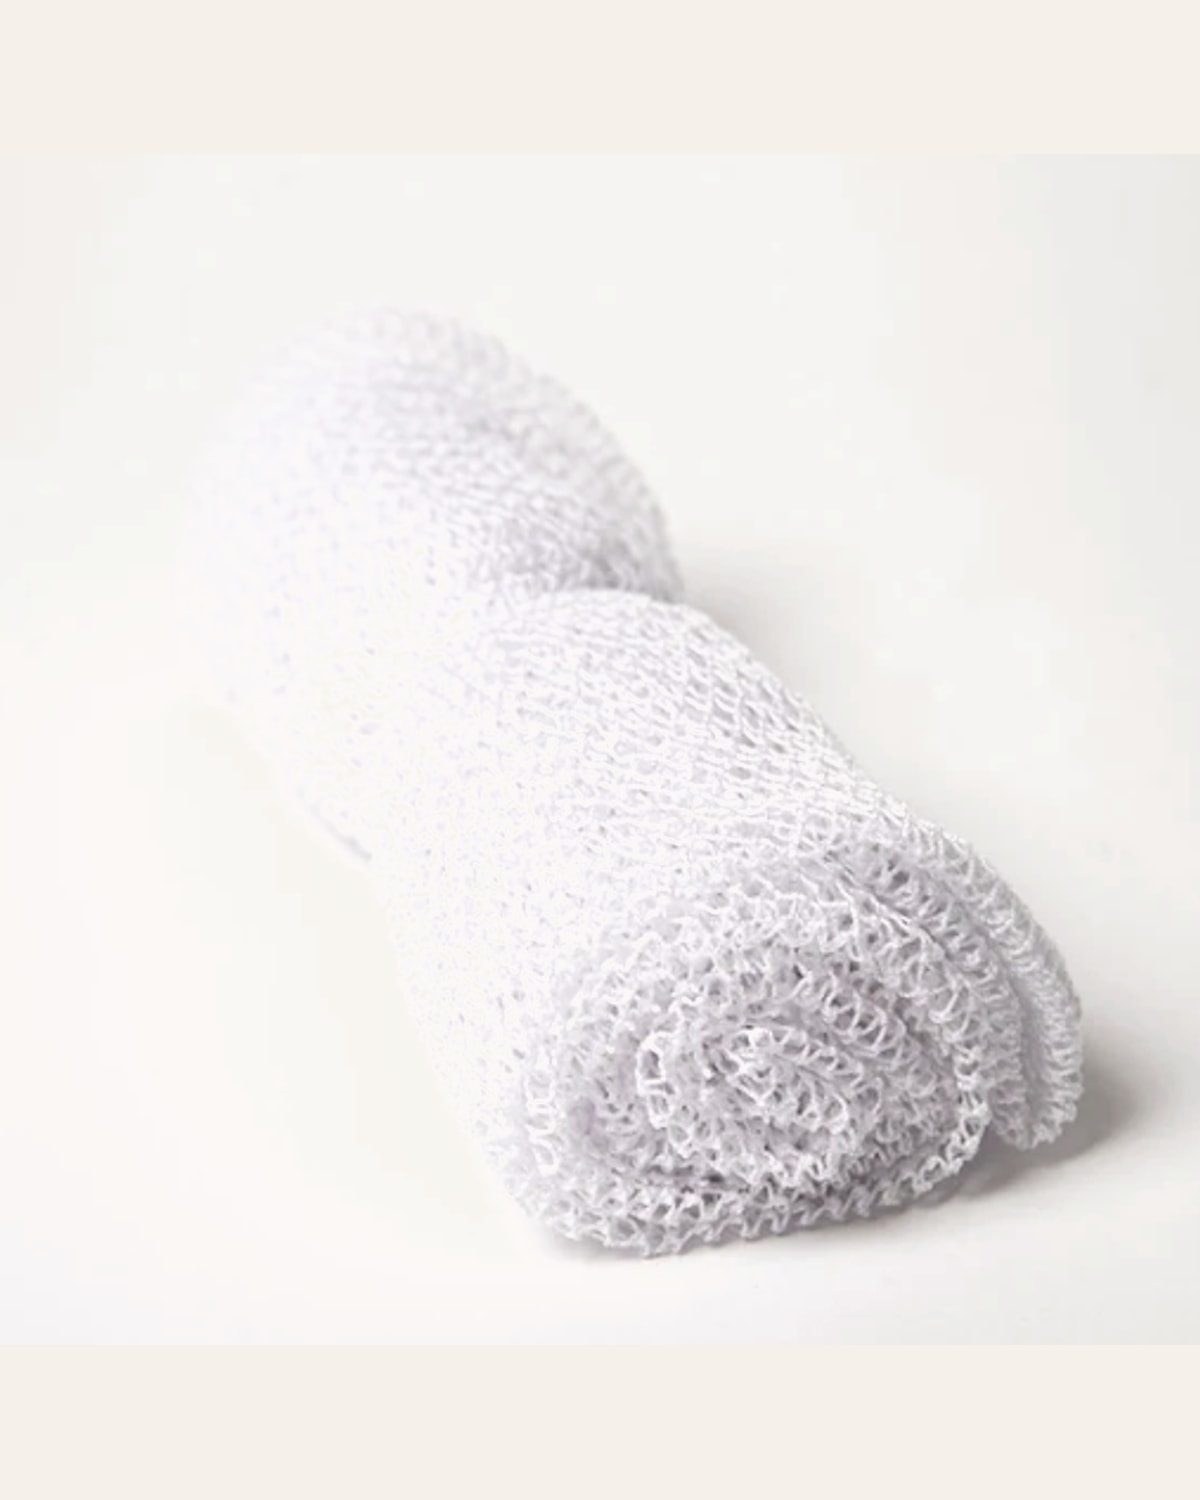
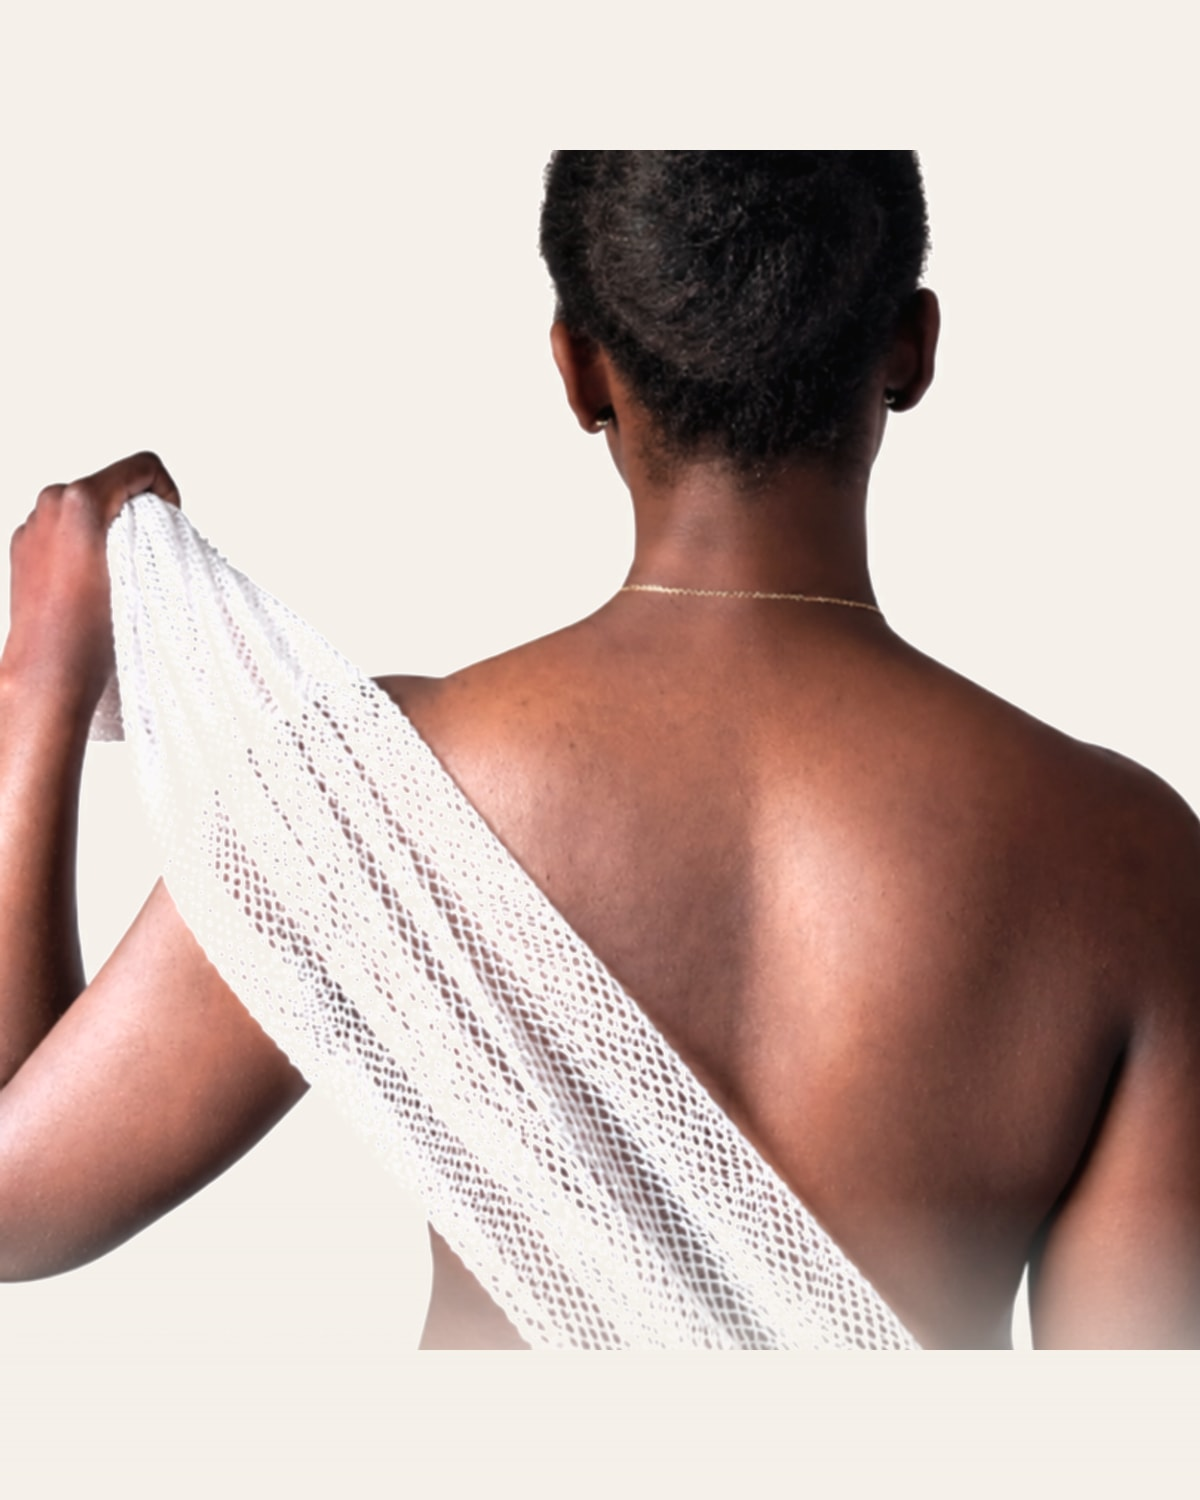
feat: red and white on-model shots complete the net sponge colourways
Both arrived shot on the same model in the same setup as the existing four, so
all six colourways now share one visual language rather than mixing an on-model
series with a flat-lay.

- Red fills the last empty colourway; its swatch no longer falls back.
- White replaces the flat-lay roll, which moves into the gallery as a texture
  frame rather than standing in as the colour's product shot.
- The gallery leads on red, the strongest frame of the six.

Verified in the browser: each of the six swatches resolves to its own
photograph, console clean.

diff --git a/data/products.ts b/data/products.ts
@@ -75,21 +75,19 @@ export const products: Product[] = [
       "100% nylon mesh, knotted by hand into a single continuous tube. Undyed and unbleached. Roughly 27\" × 11\" relaxed. Contains no rubber, latex or foam.",
     accentColor: "#C57A54",
     images: {
-      main: "/images/sponge-pink.jpg",
-      alt: "/images/sponge-blue.jpg",
+      main: "/images/sponge-red.jpg",
+      alt: "/images/sponge-pink.jpg",
       gallery: [
-        "/images/sponge-pink.jpg",
+        "/images/sponge-red.jpg",
         "/images/sponge-blue.jpg",
-        "/images/sponge-purple.jpg",
         "/images/sponge-yellow.jpg",
+        "/images/sponge-white-roll.jpg",
       ],
     },
     featured: true,
     colorways: [
       { name: "White", swatch: "#F2EFE9", image: "/images/sponge-white.jpg" },
-      // TODO(photography): red is stocked but not yet shot. The swatch shows;
-      // the gallery falls back to the main image until a photograph lands.
-      { name: "Red", swatch: "#B23A32" },
+      { name: "Red", swatch: "#C4231F", image: "/images/sponge-red.jpg" },
       { name: "Blue", swatch: "#2F6DA8", image: "/images/sponge-blue.jpg" },
       { name: "Pink", swatch: "#E45C9C", image: "/images/sponge-pink.jpg" },
       { name: "Yellow", swatch: "#E0A83C", image: "/images/sponge-yellow.jpg" },
